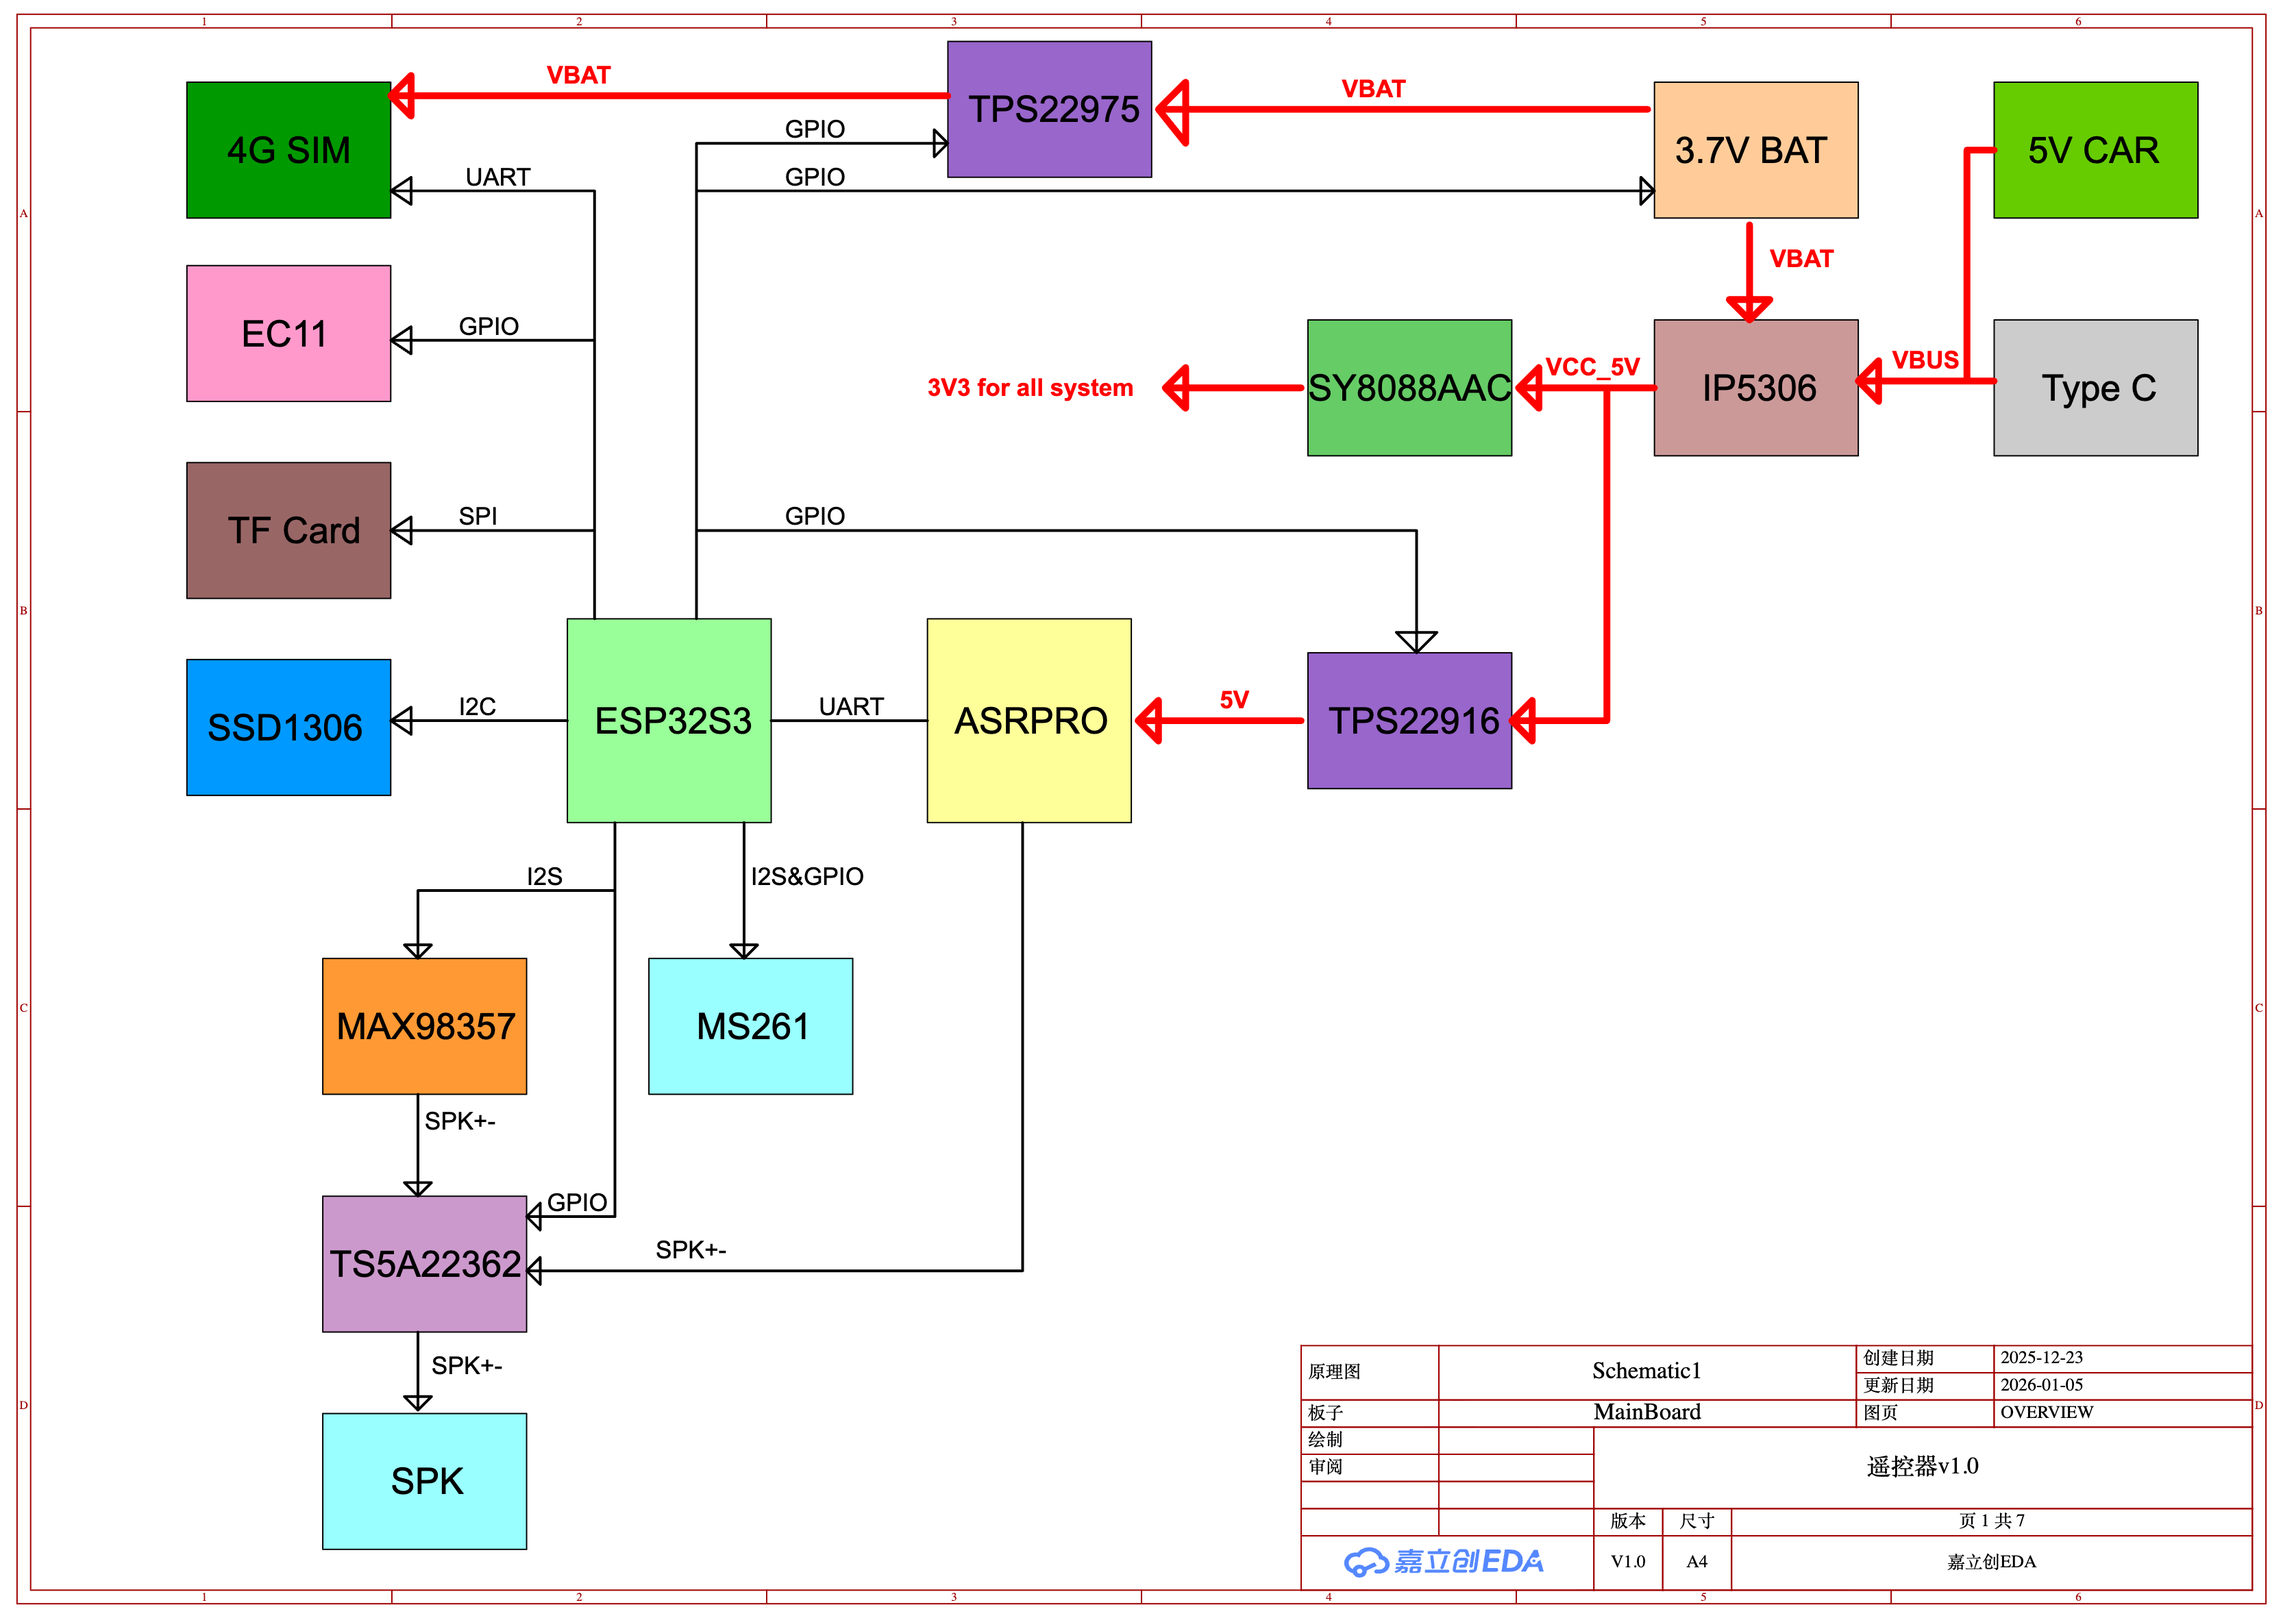
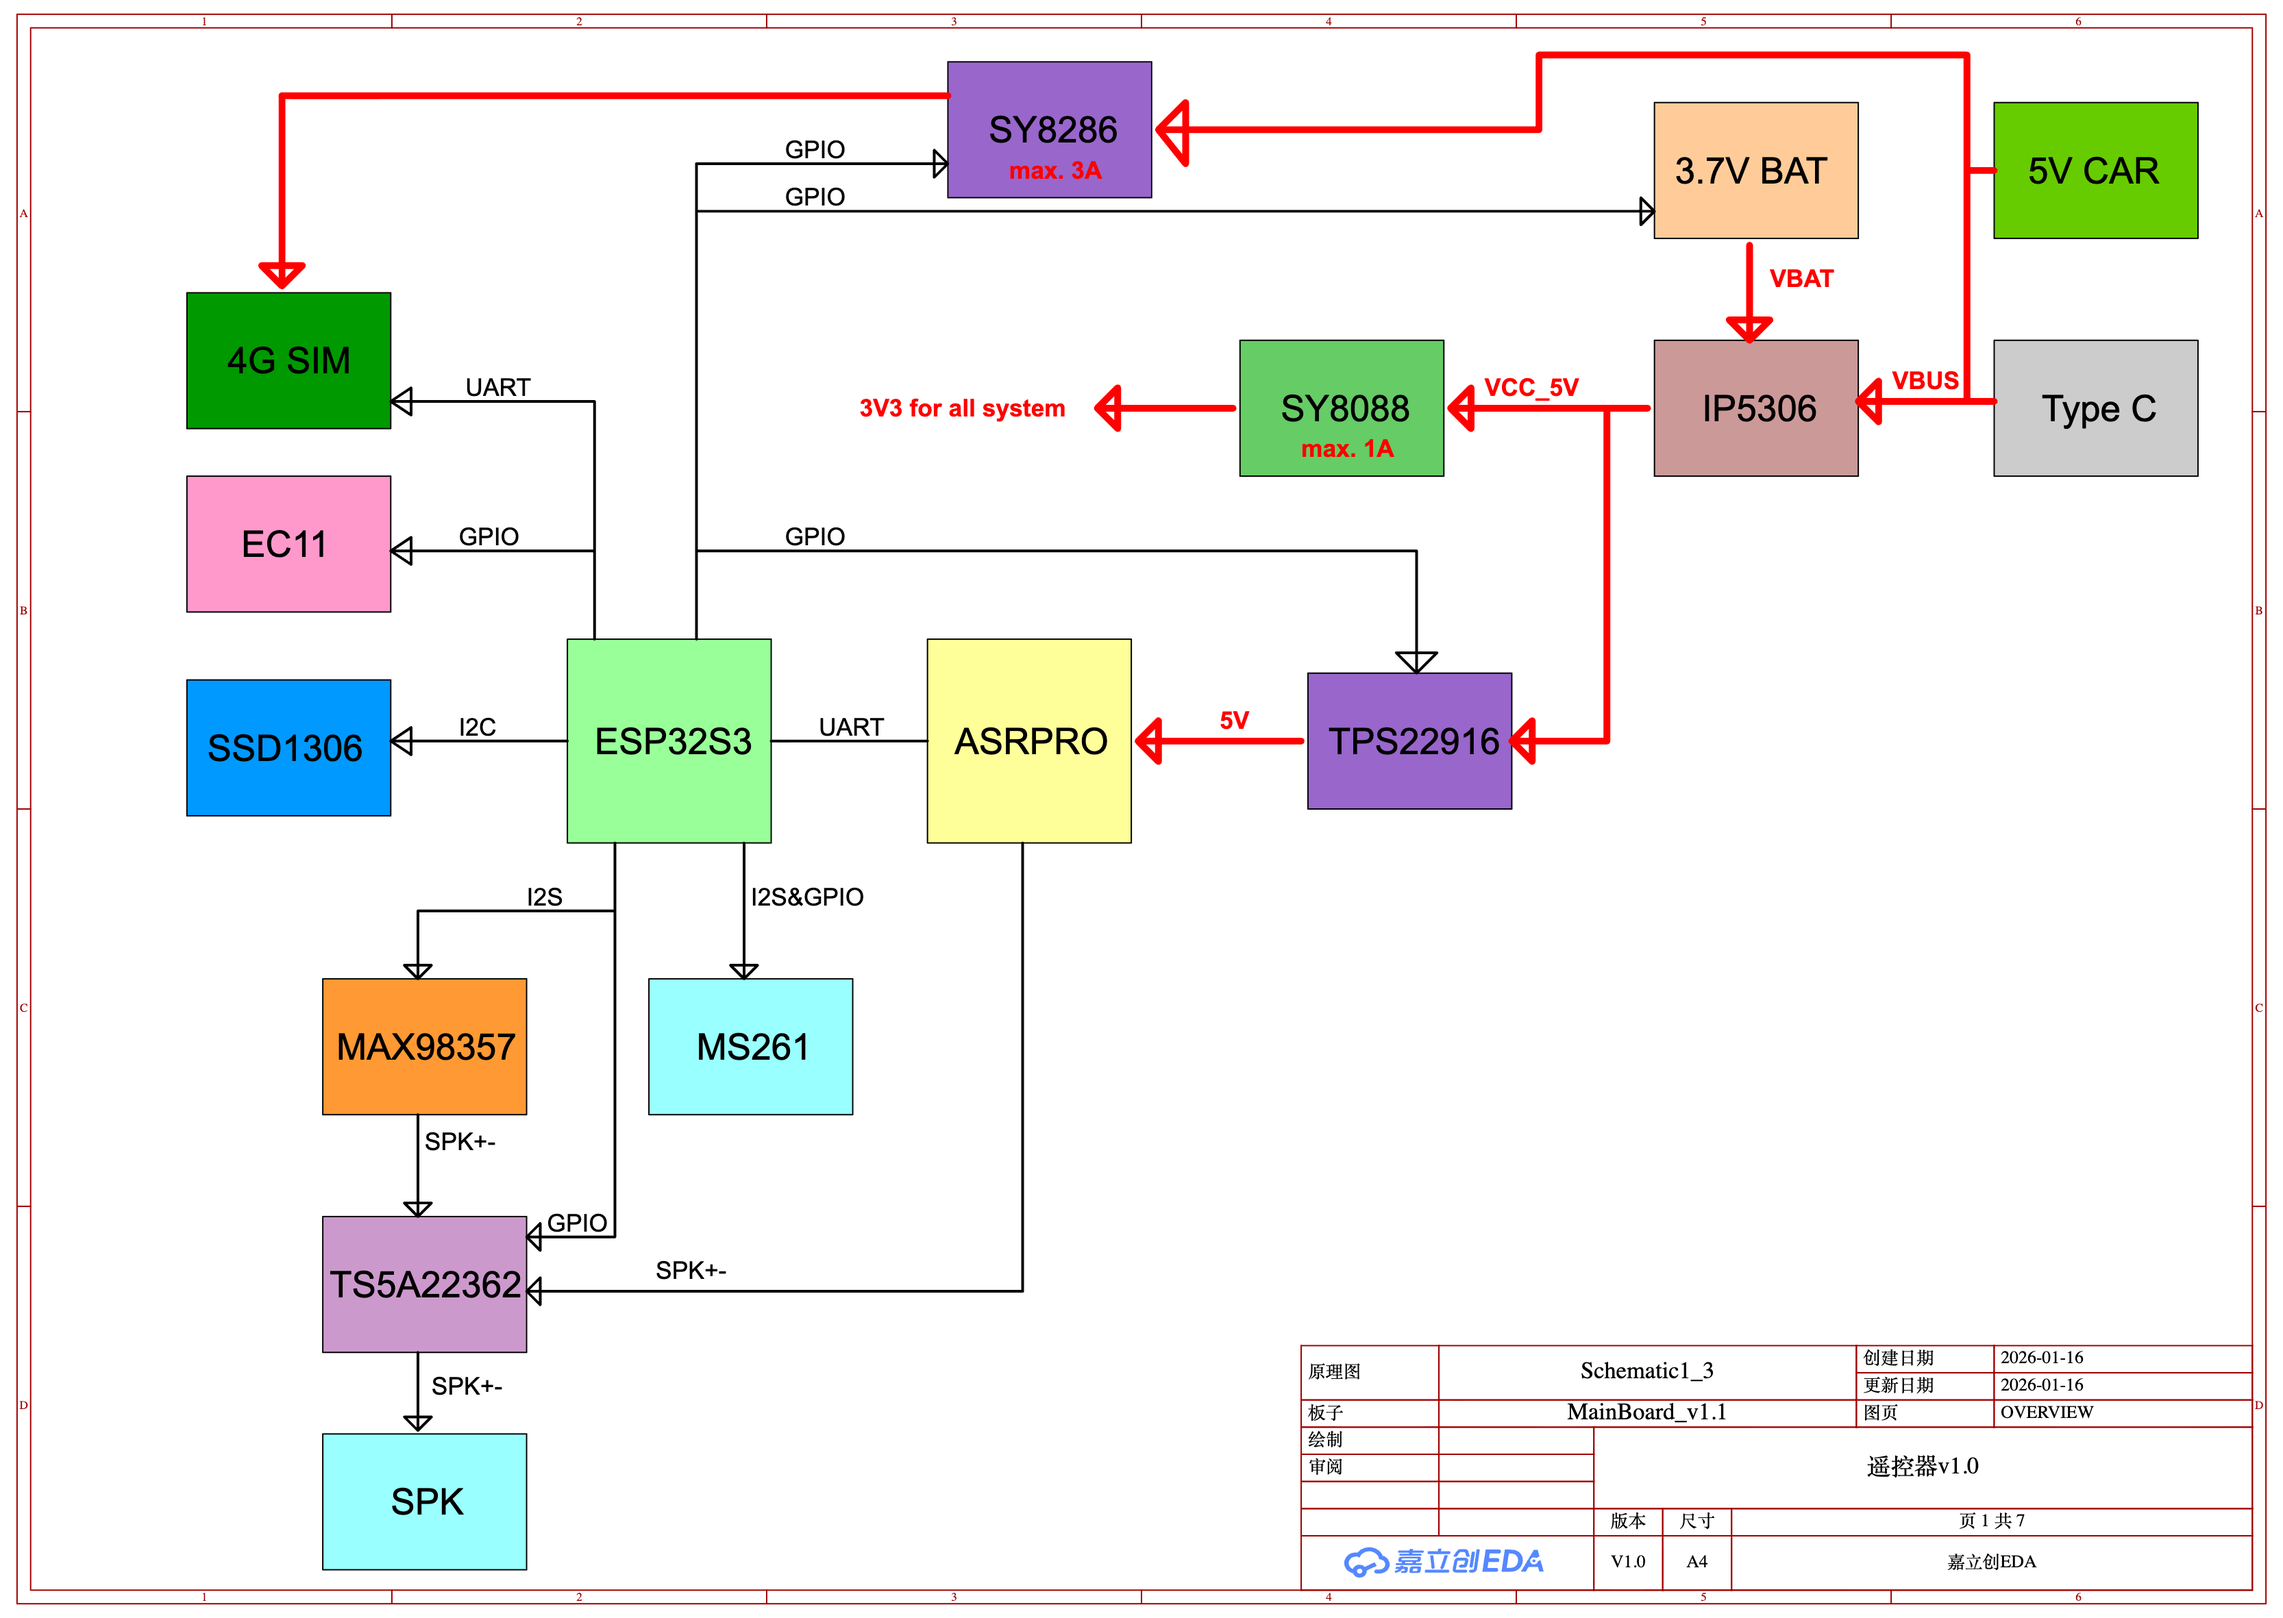
edit readme

diff --git a/README.md b/README.md
@@ -53,8 +53,8 @@ Power protection features include:
 - Enables **true always-on cellular connectivity** without the need for a physical SIM card
 
 <p align="center">
-  <img src="03.fotos/r.png" alt="r" width="30%" />
-  <img src="03.fotos/f.png" alt="f" width="30%" />
+  <img src="03.fotos/r.png" alt="r" width="50%" />
+  <img src="03.fotos/f.png" alt="f" width="50%" />
 </p>
 
 
